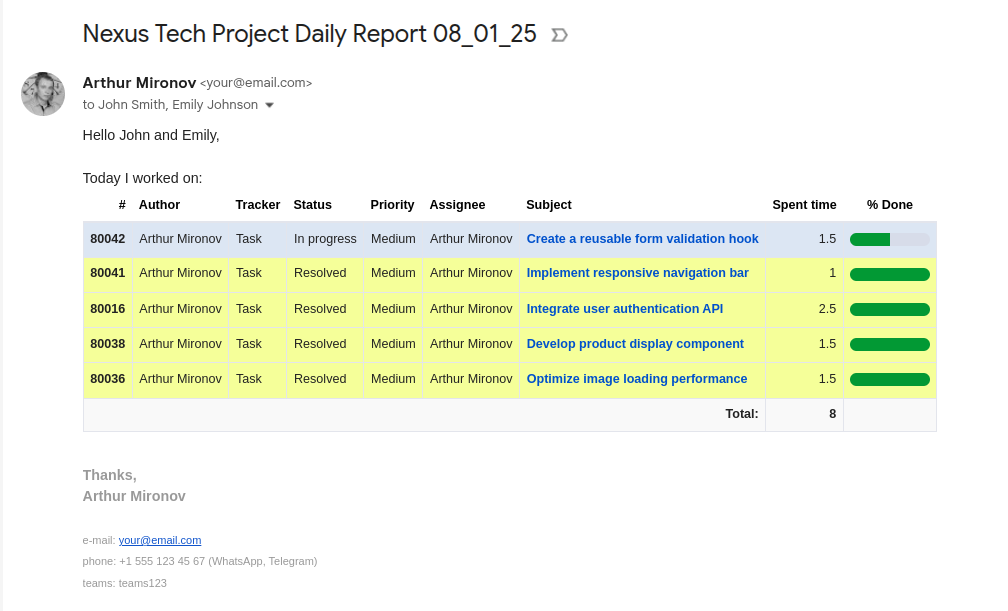
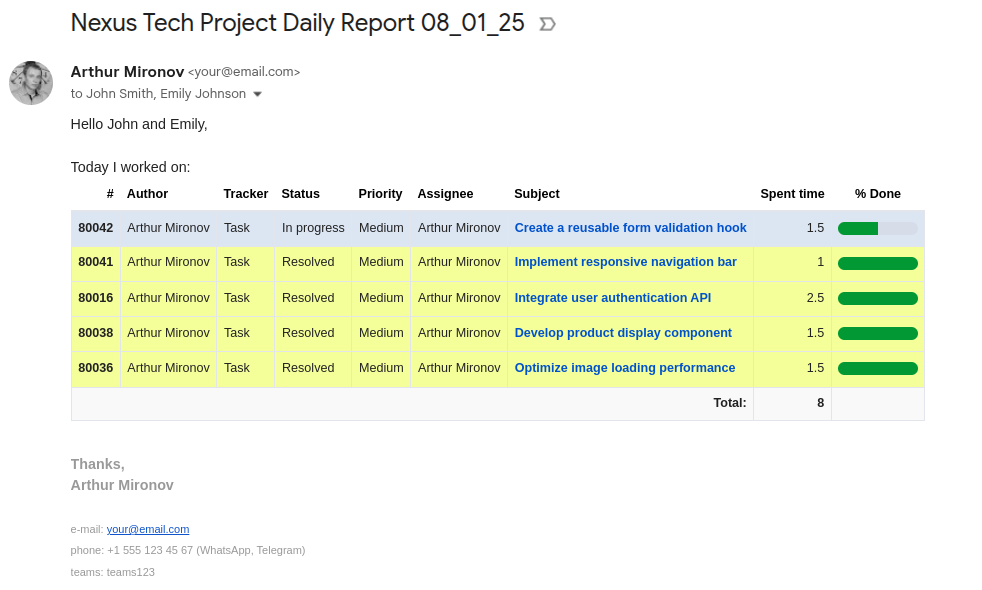
Updated README image

Changed region(s): [[0.0611, 0.2746, 0.947, 0.7017], [0.0, 0.0, 0.5804, 0.2441], [0.0611, 0.7627, 0.3055, 0.9763]]

diff --git a/README.md b/README.md
@@ -6,7 +6,7 @@ This Google Apps Script automates generating and sending daily reports based on 
 
 Example:
 
-![Daily Report Email Example](daily-report-example.png)
+<img src="daily-report-example.png" width="982" alt="Daily Report Email Example">
 
 ### Setup Instructions:
 
